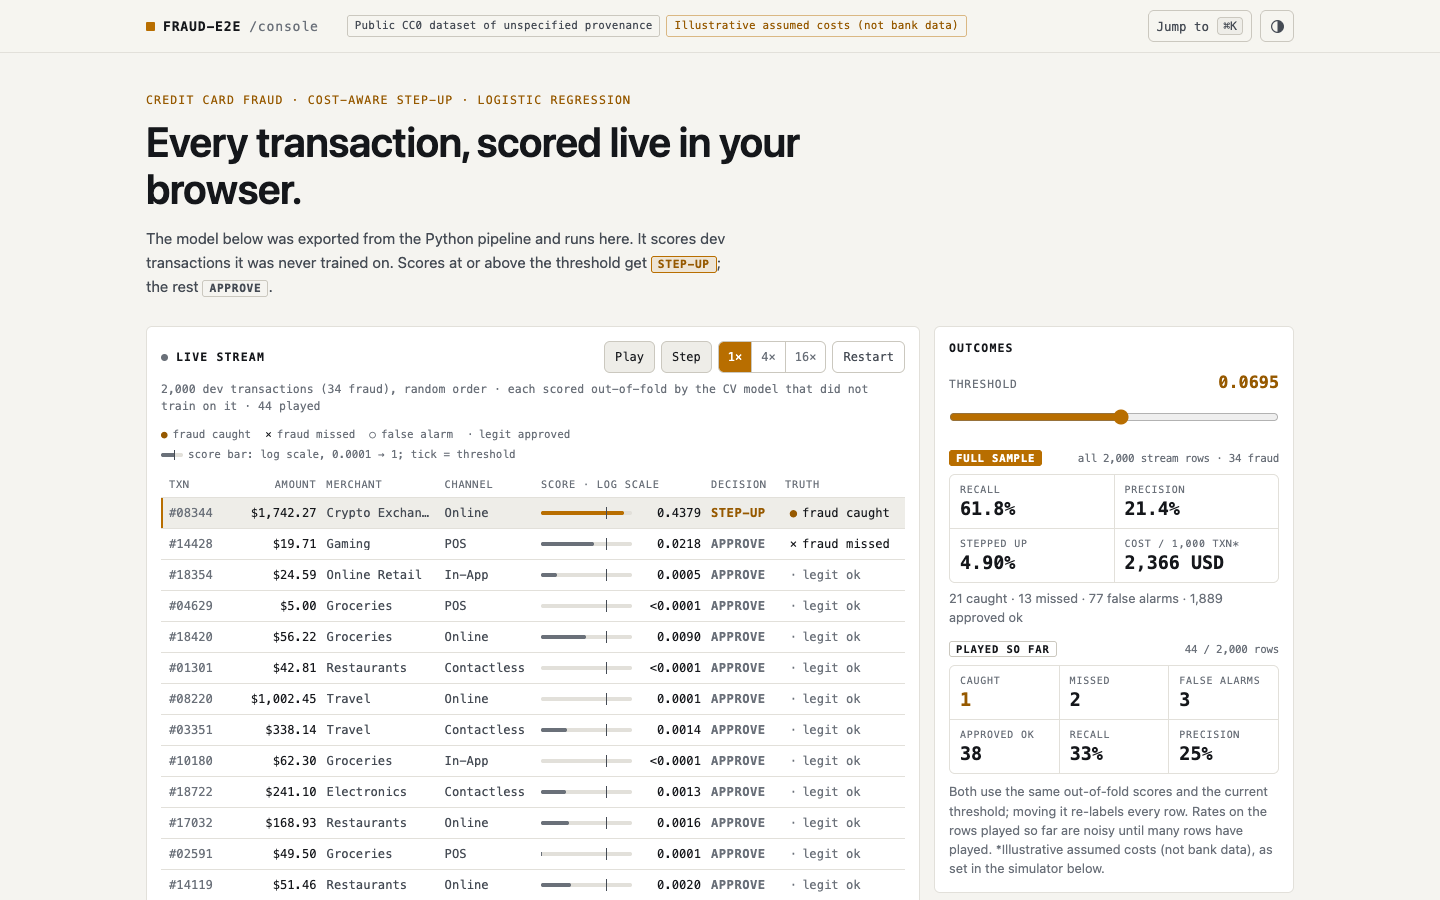
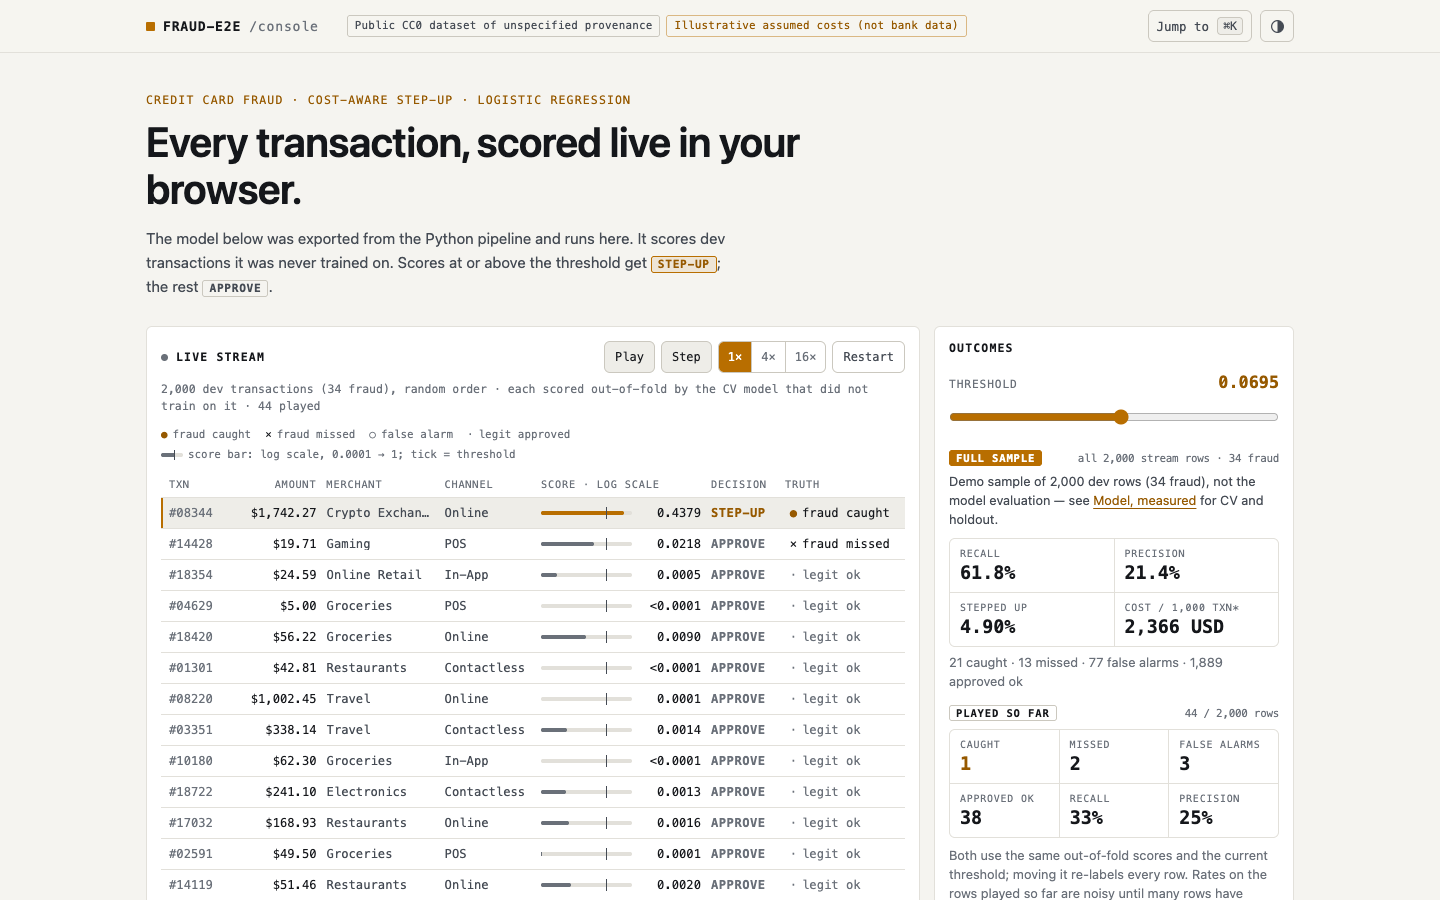
Outcomes: say the full sample is a demo sample, not the model evaluation (link to metrics)

Changed region(s): [[0.6562, 0.5289, 0.875, 1.0]]

diff --git a/web/site/index.html b/web/site/index.html
@@ -92,6 +92,8 @@
           <div class="ctr-block" aria-labelledby="full-title">
             <h3 class="ctr-title" id="full-title"><span class="scope scope--full">full sample</span>
               <span class="ctr-meta">all 2,000 stream rows · 34 fraud</span></h3>
+            <p class="fine scope-note">Demo sample of 2,000 dev rows (34 fraud), not the model
+              evaluation &mdash; see <a href="#metrics">Model, measured</a> for CV and holdout.</p>
             <dl class="ctr-grid ctr-grid--2">
               <div><dt>recall</dt><dd id="f-recall">—</dd></div>
               <div><dt>precision</dt><dd id="f-precision">—</dd></div>

diff --git a/web/site/style.css b/web/site/style.css
@@ -162,6 +162,7 @@ input[type="range"] { width: 100%; accent-color: var(--accent); margin: 8px 0 2p
 .ctr-block .ctr-grid { margin-top: 8px; }
 .ctr-grid--2 { grid-template-columns: repeat(2, minmax(0, 1fr)); }
 .ctr-block .fine { margin-top: 6px; }
+.ctr-block .scope-note { margin: 6px 0 0; color: var(--ink-2); }
 
 /* inspector + contribution bars */
 .insp-head { display: grid; grid-template-columns: 1fr auto; gap: 2px 10px; margin-top: 12px; font: 0.75rem var(--mono); color: var(--ink-2); }

diff --git a/web/src/style.css b/web/src/style.css
@@ -162,6 +162,7 @@ input[type="range"] { width: 100%; accent-color: var(--accent); margin: 8px 0 2p
 .ctr-block .ctr-grid { margin-top: 8px; }
 .ctr-grid--2 { grid-template-columns: repeat(2, minmax(0, 1fr)); }
 .ctr-block .fine { margin-top: 6px; }
+.ctr-block .scope-note { margin: 6px 0 0; color: var(--ink-2); }
 
 /* inspector + contribution bars */
 .insp-head { display: grid; grid-template-columns: 1fr auto; gap: 2px 10px; margin-top: 12px; font: 0.75rem var(--mono); color: var(--ink-2); }

diff --git a/scripts/web_preview.py b/scripts/web_preview.py
@@ -121,6 +121,12 @@ def main() -> int:
                 "outcomes label 'full sample' and 'played so far' separately",
             )
             check(page.text_content("#f-recall") not in ("", "—"), "full-sample recall shown")
+            note = page.locator(".scope-note")
+            check(
+                "not the model evaluation" in " ".join(note.text_content().split())
+                and note.locator('a[href="#metrics"]').count() == 1,
+                "full-sample note says it is a demo sample and links to Model, measured",
+            )
             text = page.text_content("main")
             check("e-" not in page.text_content("#s-rows"), "stream scores use no e-notation")
             check("<0.0001" in text, "scores below 0.0001 show as <0.0001")
